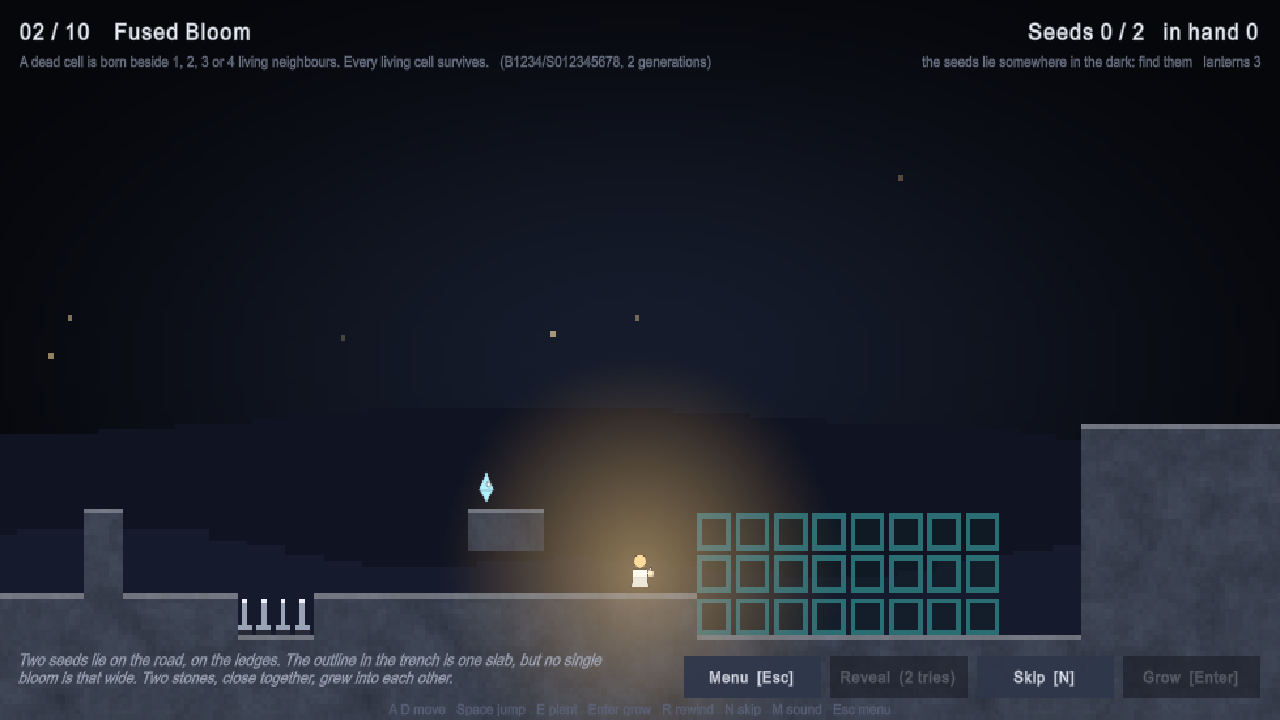
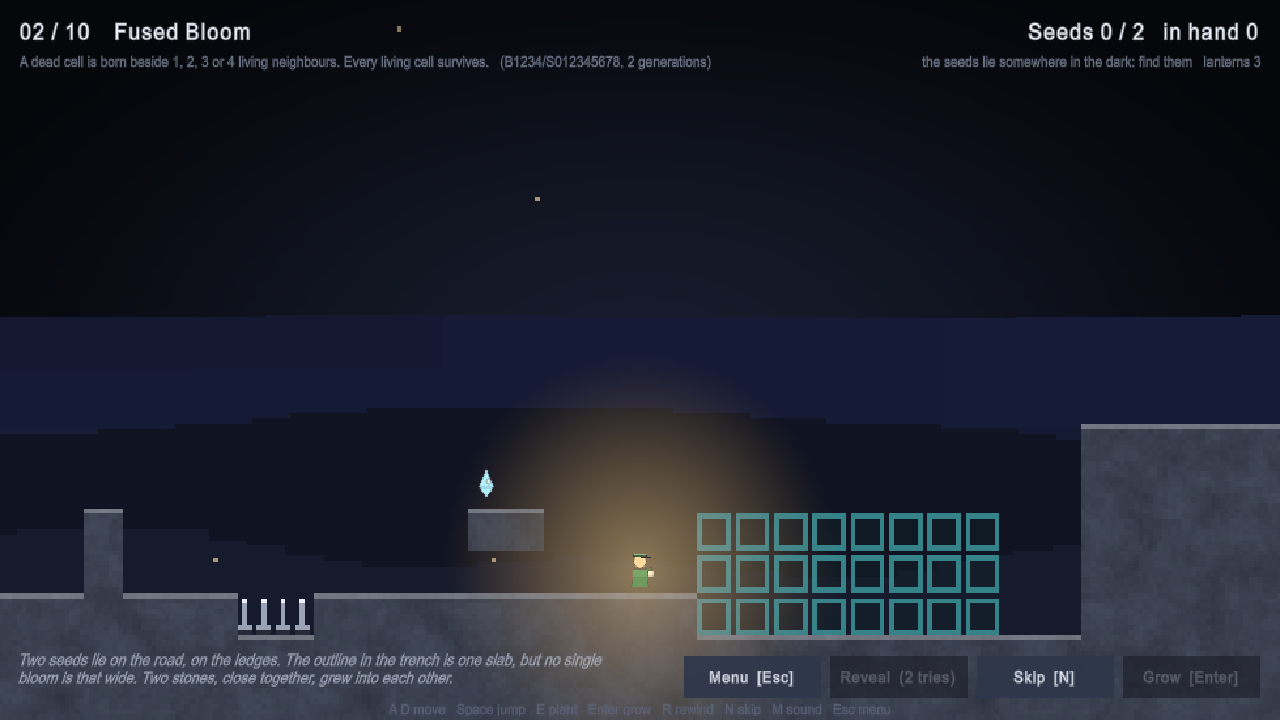
Screenshots from the final build: plateau, outfit, warm lantern

diff --git a/docs/itch-page.md b/docs/itch-page.md
@@ -65,7 +65,8 @@ browser", viewport 1280 x 720, fullscreen button on, mobile off. Kind of
 project: HTML. Cover image: `docs/cover.png` (630x500). Trailer GIF:
 `docs/loop.gif` (plant, get clear, grow, cross). Screenshots from
 `docs/screenshots/`: `itch_01_tutorial`, `itch_02_fused_bloom`,
-`itch_03_quench`, `itch_04_two_echoes`, `itch_05_ashfall`, `itch_06_shadow`.
+`itch_03_quench`, `itch_04_two_echoes`, `itch_05_ashfall`, `itch_06_shadow`,
+`itch_07_wanderer` (the outfit page).
 
 **itch fields:** Classification: Games. Genre: Platformer, Puzzle. Tags:
 puzzle-platformer, cellular-automata, pixel-art, 2d, singleplayer, chiptune,
